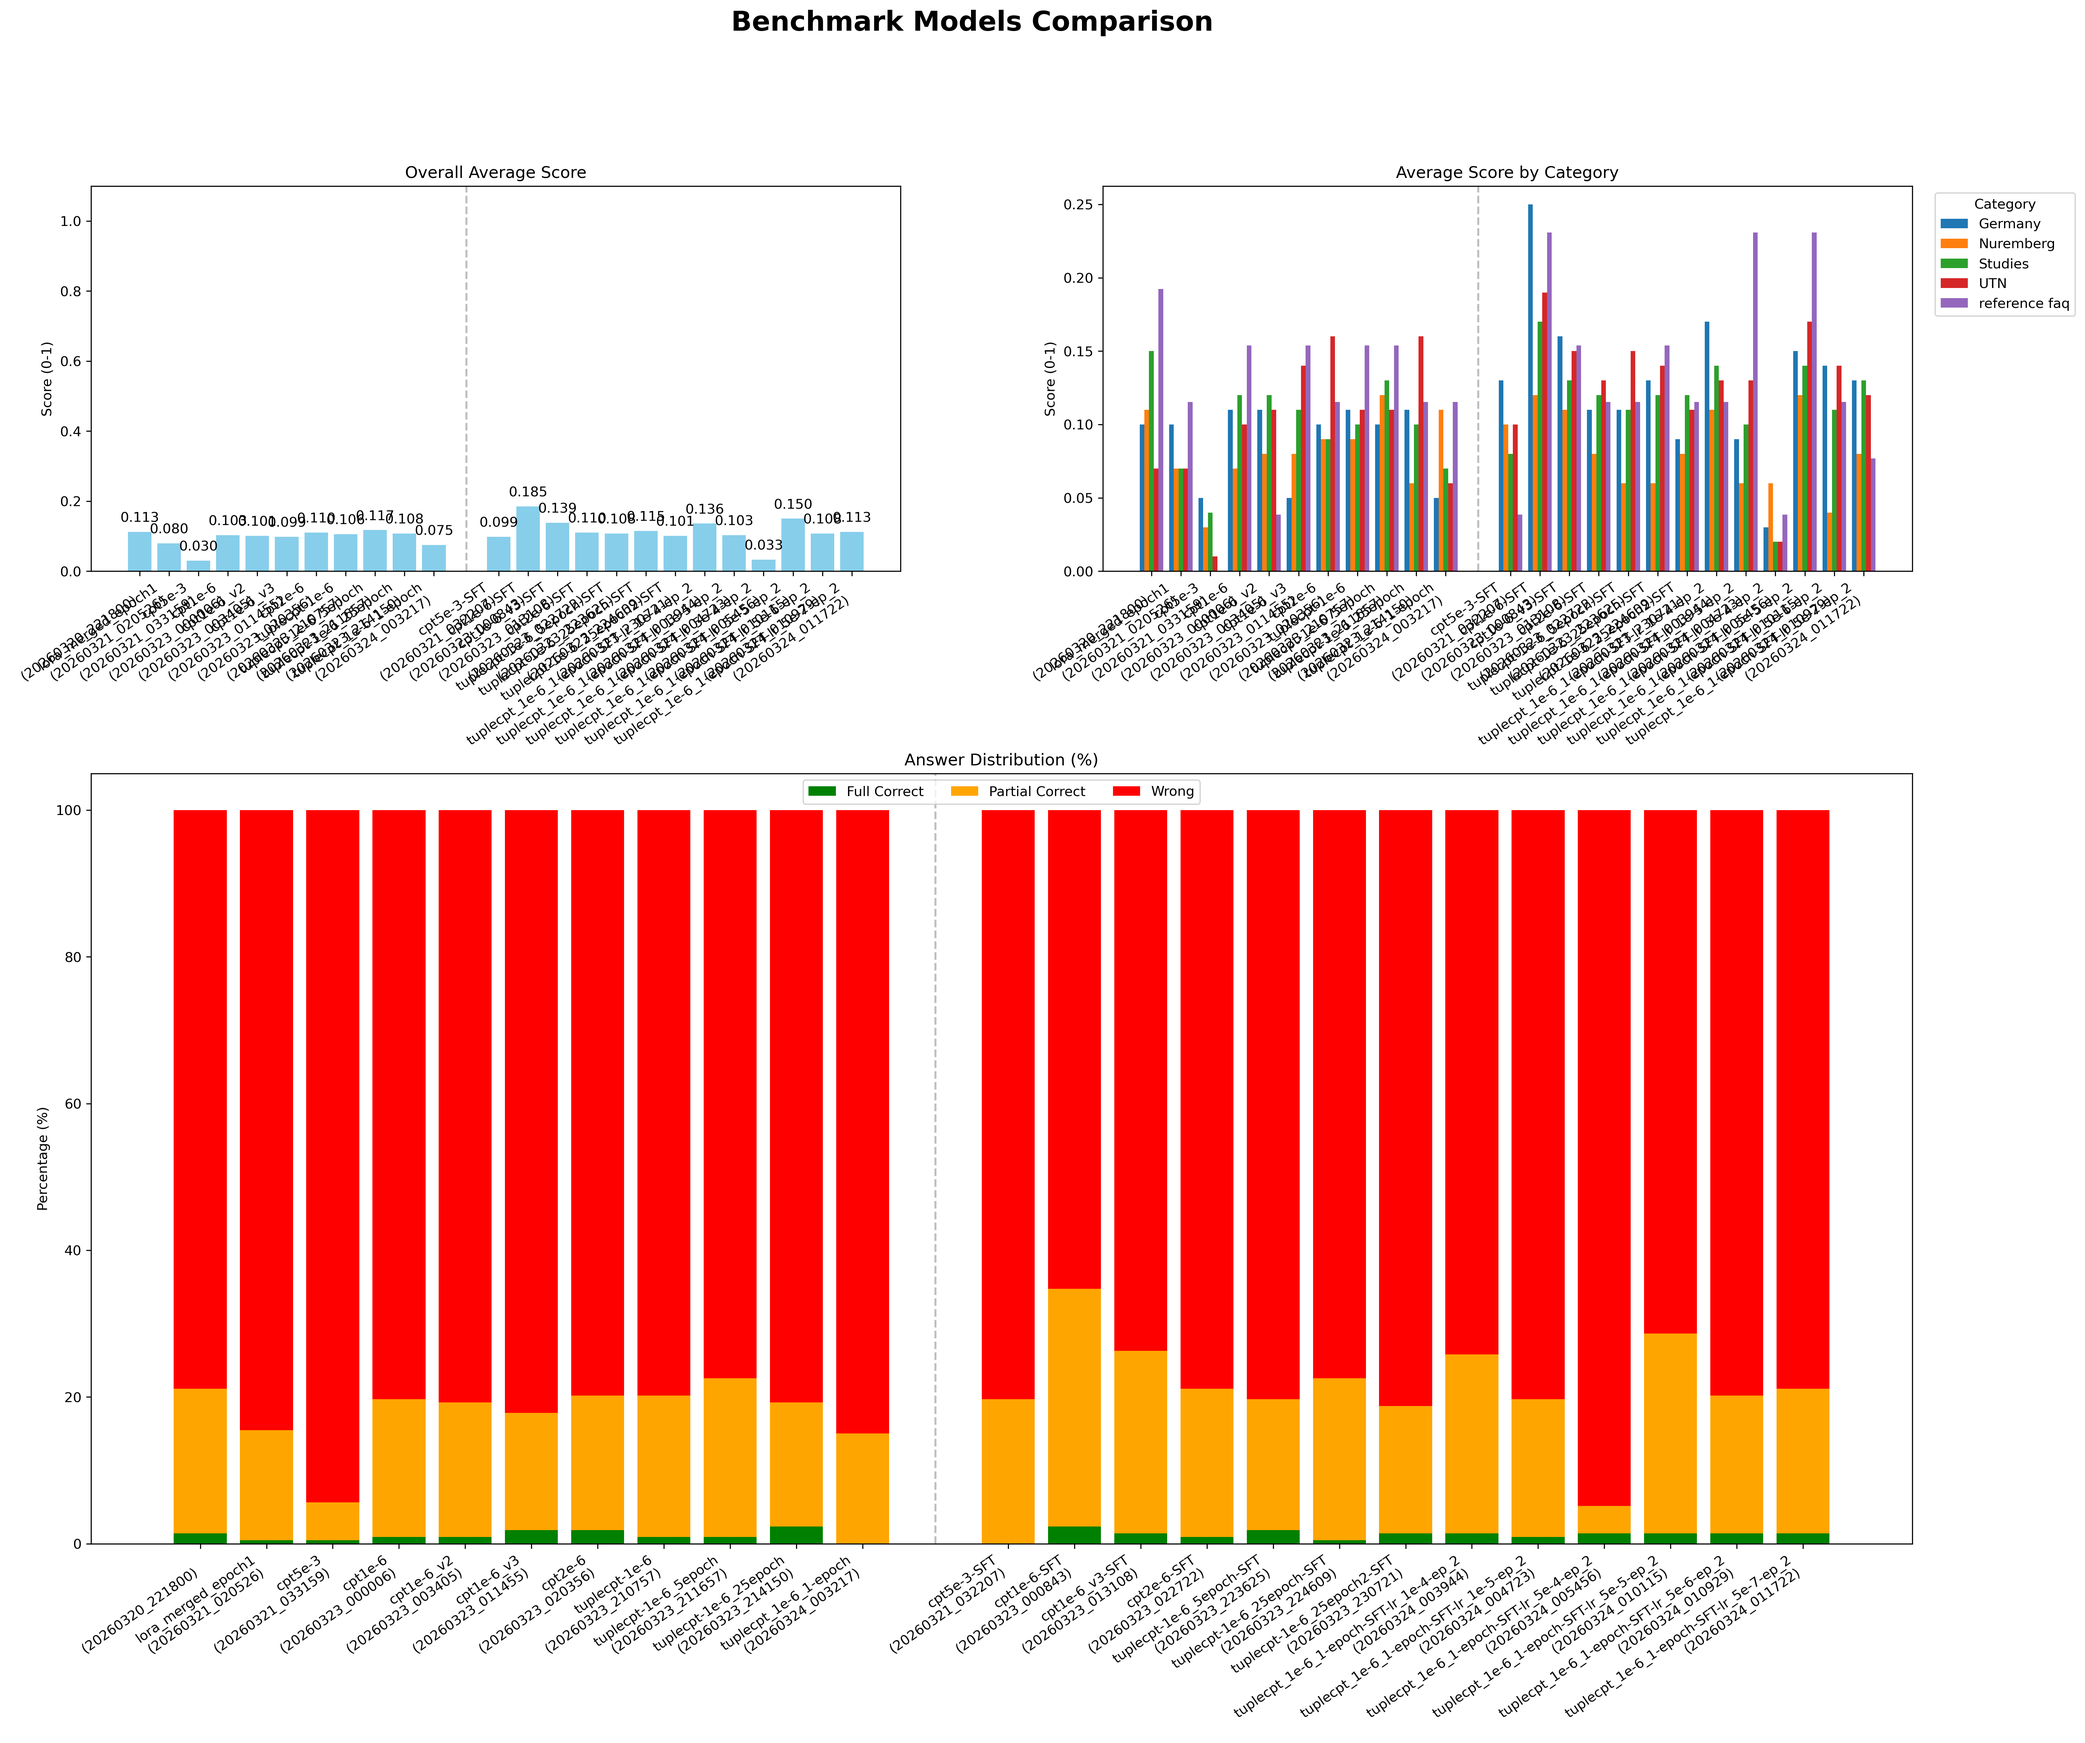
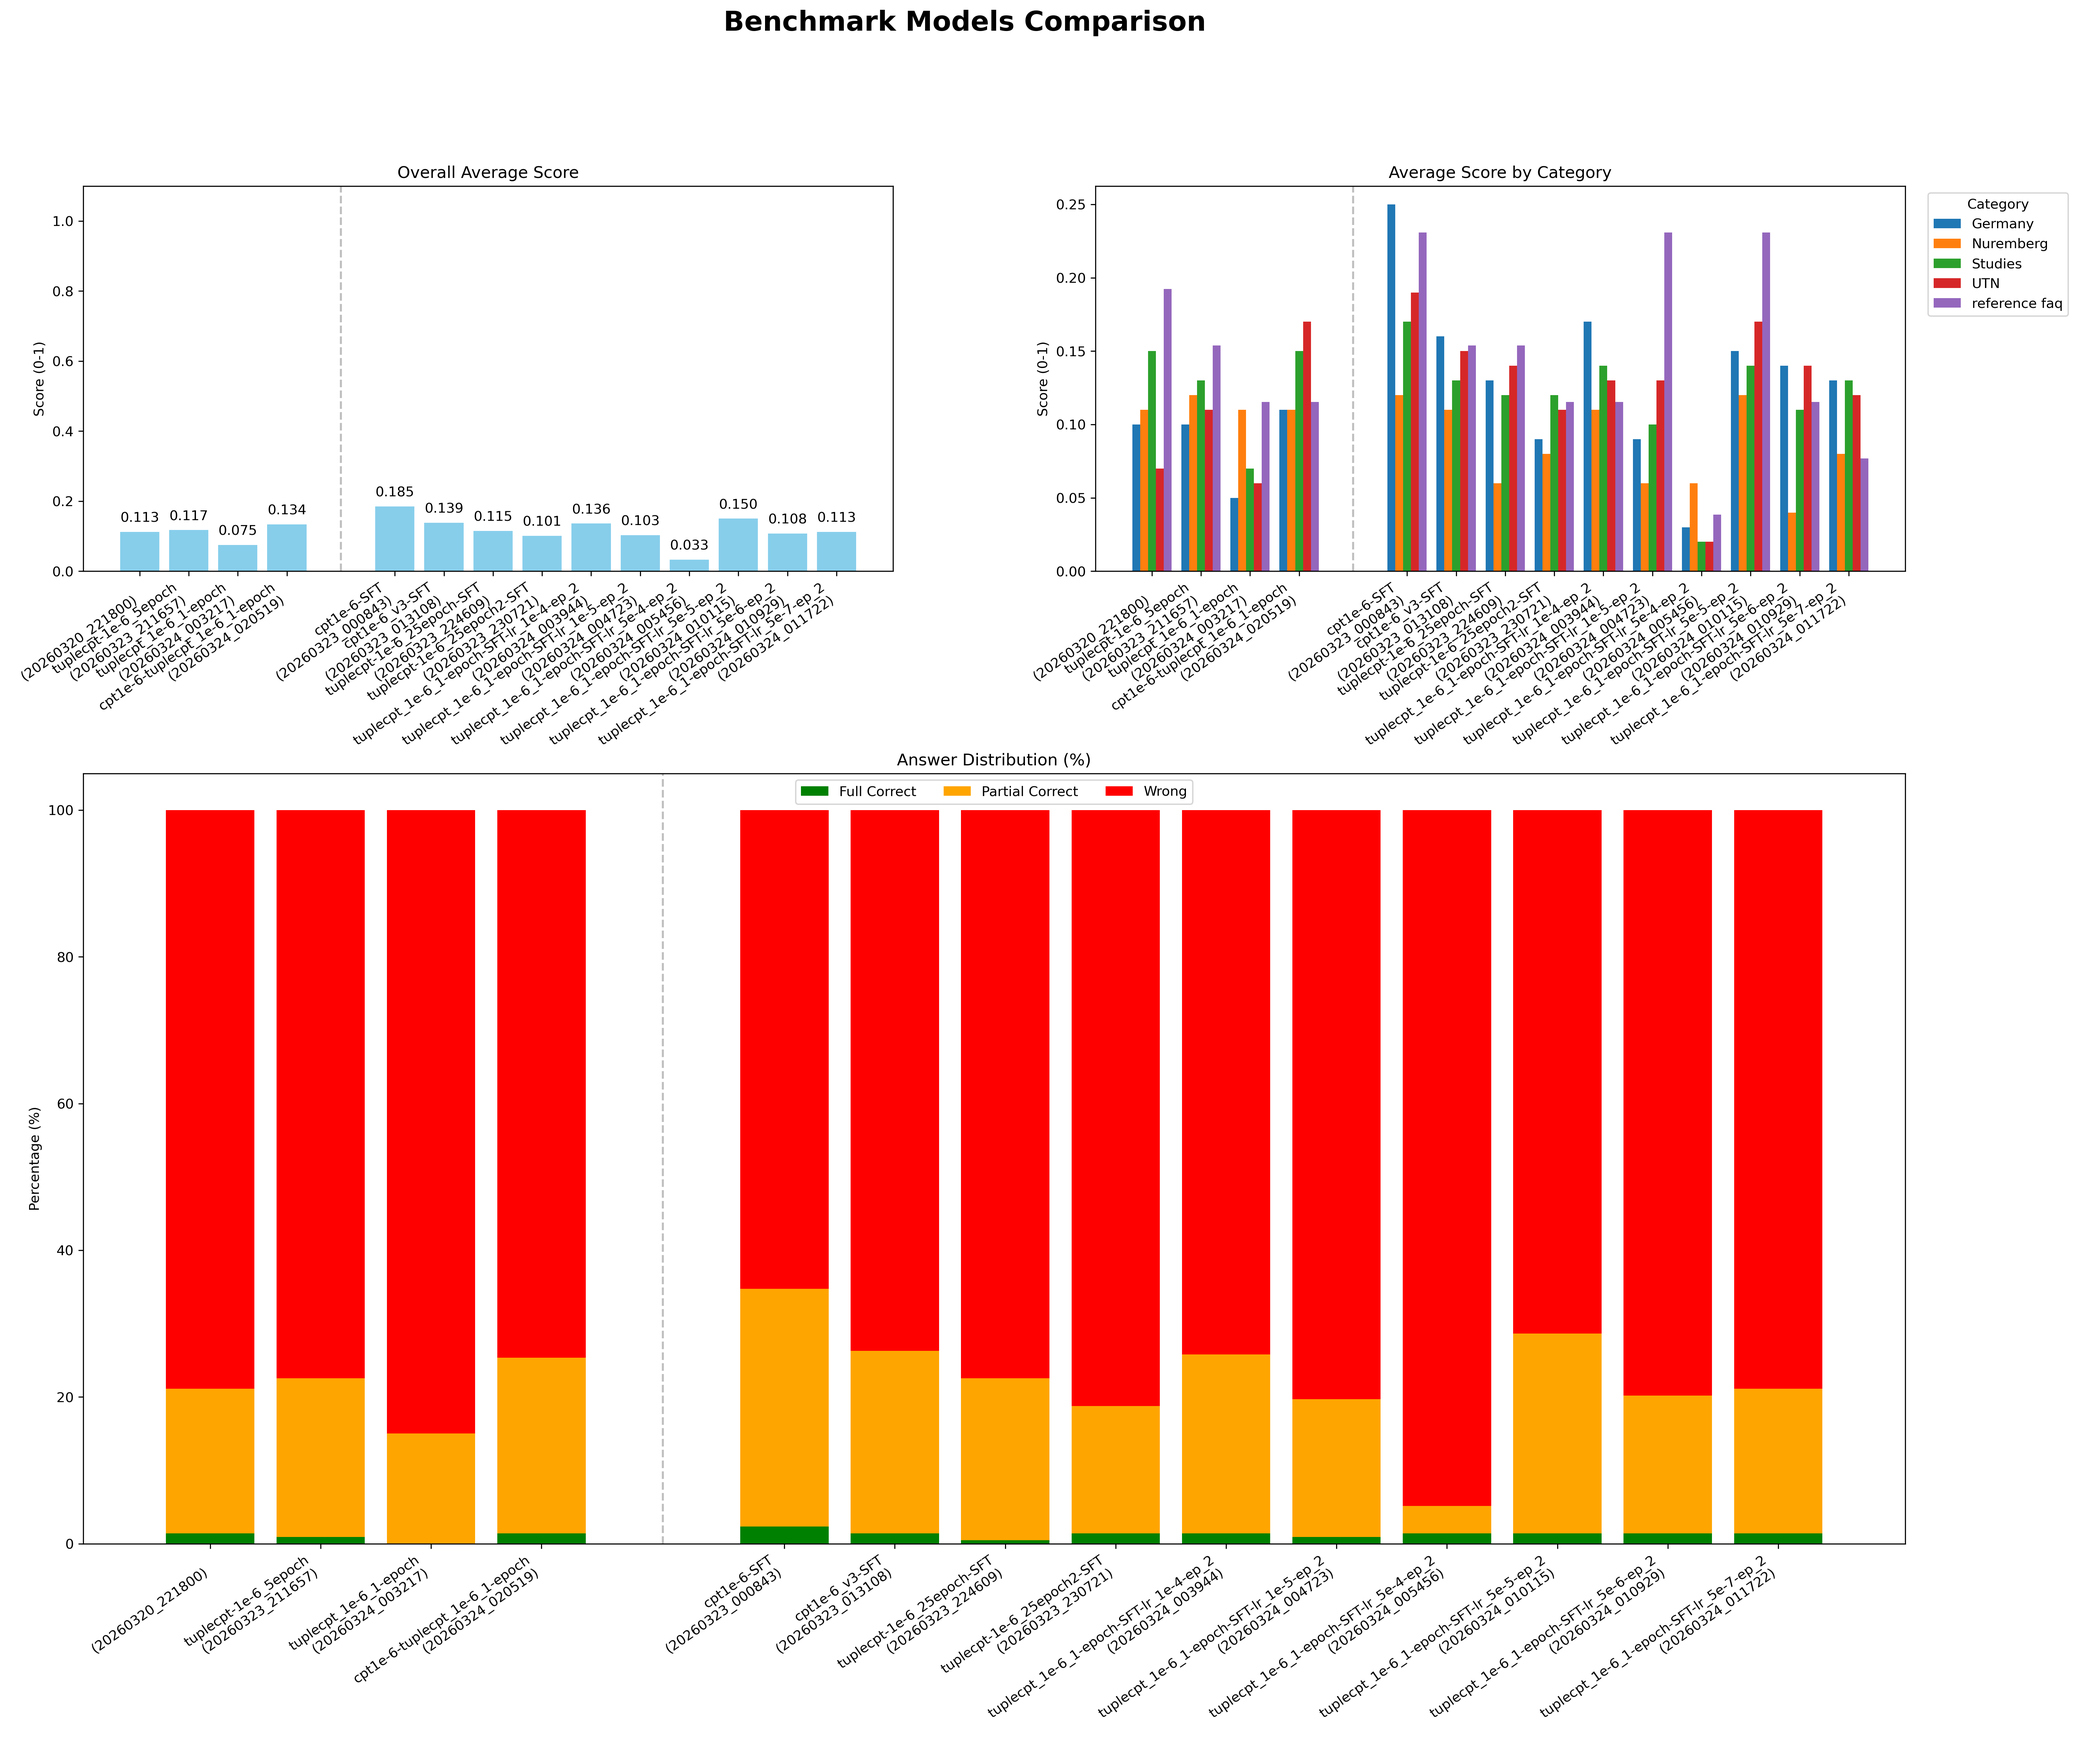
Better comparison

diff --git a/4_benchmark/comparison.py b/4_benchmark/comparison.py
@@ -5,6 +5,10 @@ import numpy as np
 from pathlib import Path
 
 
+NUM_RECENT_BENCHMARKS = 10
+TOP_K_PER_GROUP = 3
+
+
 def clean_display_name(name):
     prefix = "Qwen_Qwen3-0.6B"
     if not isinstance(name, str):
@@ -62,6 +66,38 @@ def load_results(results_dir):
     return results
 
 
+def select_results_for_plot(results, num_recent=NUM_RECENT_BENCHMARKS, top_k_per_group=TOP_K_PER_GROUP):
+    if not results:
+        return results
+
+    selected_indices = set()
+
+    # Always include the very first benchmark
+    selected_indices.add(0)
+
+    # Include the last N benchmarks
+    recent_start = max(0, len(results) - num_recent)
+    selected_indices.update(range(recent_start, len(results)))
+
+    non_sft_indices = [i for i, res in enumerate(results) if not res.get('is_sft', False)]
+    sft_indices = [i for i, res in enumerate(results) if res.get('is_sft', False)]
+
+    def add_top_k(indices):
+        ranked = sorted(
+            indices,
+            key=lambda i: results[i].get('stats', {}).get('average_score', 0),
+            reverse=True
+        )
+        selected_indices.update(ranked[:top_k_per_group])
+
+    # Include top-k overall for base and SFT separately
+    add_top_k(non_sft_indices)
+    add_top_k(sft_indices)
+
+    # Preserve chronological order before later grouping
+    return [results[i] for i in range(len(results)) if i in selected_indices]
+
+
 def reorder_results_with_sft_grouping(results):
     non_sft = [res for res in results if not res.get('is_sft', False)]
     sft = [res for res in results if res.get('is_sft', False)]
@@ -88,6 +124,7 @@ def create_comparison_plots(results, output_file="comparison_results.png"):
         print("No valid benchmark results found.")
         return
 
+    results = select_results_for_plot(results)
     results, num_non_sft, num_sft = reorder_results_with_sft_grouping(results)
 
     # Extract data

diff --git a/manual_hpo_benchmarking.py b/manual_hpo_benchmarking.py
@@ -8,6 +8,8 @@ import sys
 from dataclasses import dataclass
 from pathlib import Path
 
+import manual_hpo
+
 try:
     import yaml
 except ImportError as e:
@@ -27,7 +29,7 @@ CREATE_CONFIG_BACKUP = True
 RESTORE_ORIGINAL_CONFIG_AT_END = True
 
 # Naming scheme used by your HPO scripts
-COPIED_MODEL_PREFIX = "Qwen_Qwen3-0.6B-tuplecpt"
+COPIED_MODEL_PREFIX = manual_hpo.COPIED_MODEL_PREFIX
 
 # =========================
 # Paths
